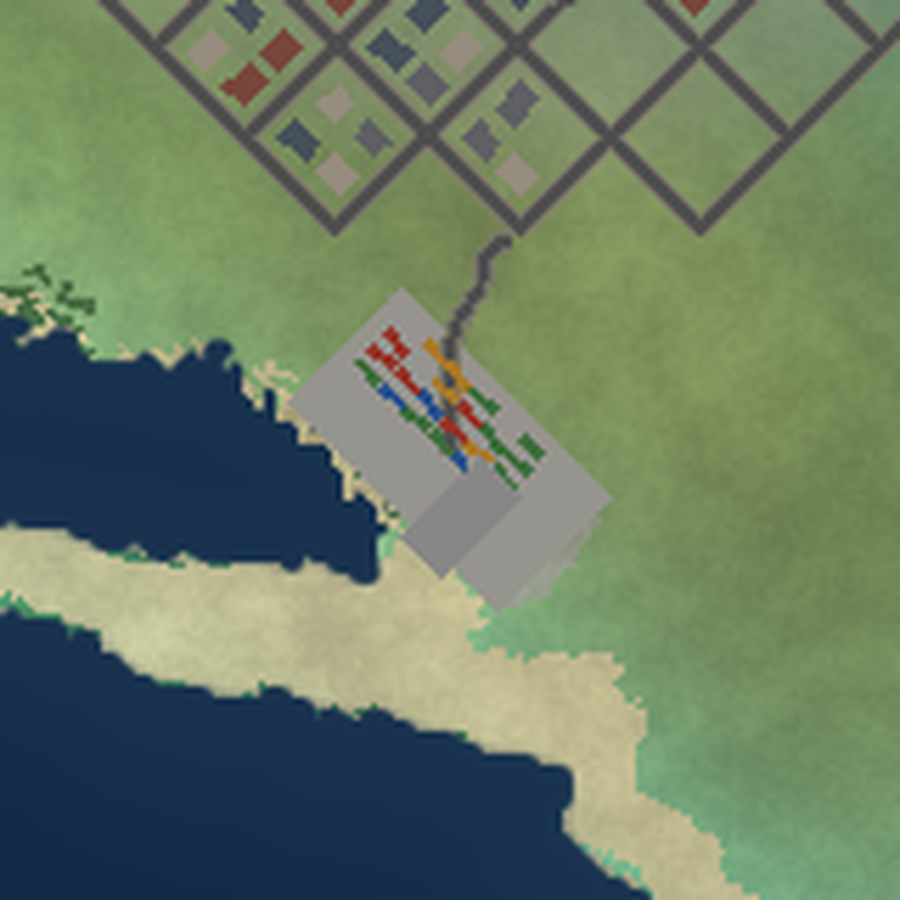
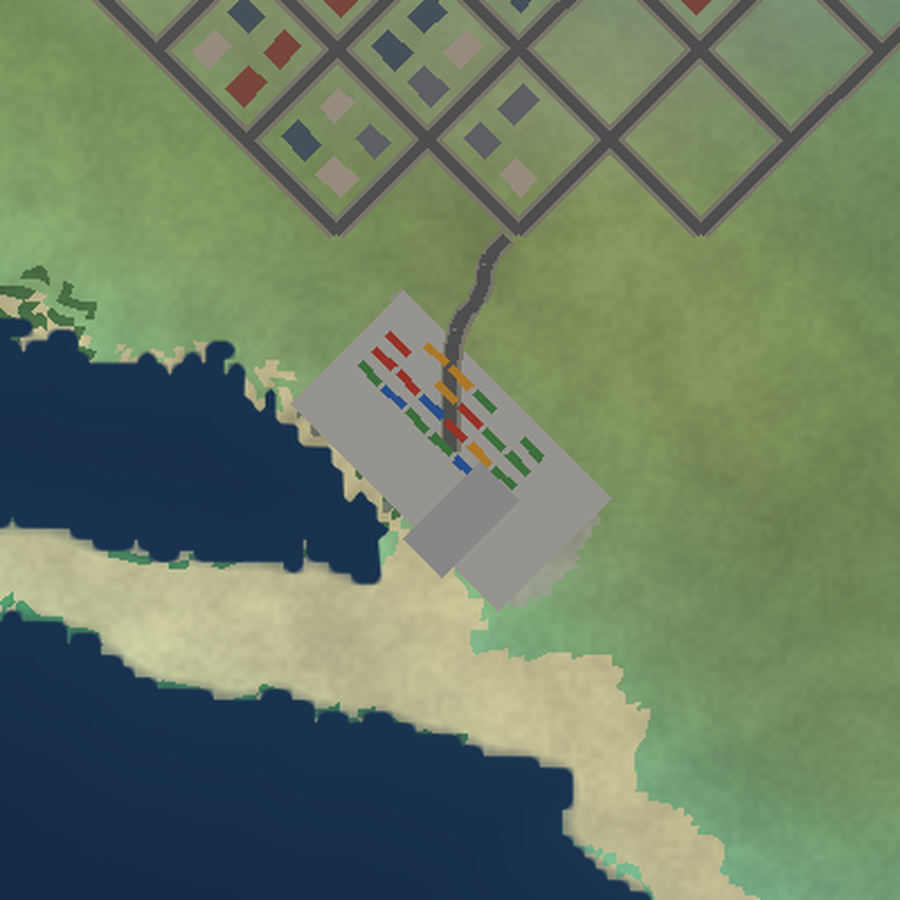
Move roads to data/roads for the PBO, point newRoadsShape at them, and rewrite the README
The README now covers the reshaped scale, roads, water, points of interest, forests, Terrain
Builder import, packing the mod, server setup and the names to verify on a P: drive. Text
files are renormalised to the line endings set in .gitattributes.

diff --git a/tools/roads.py b/tools/roads.py
@@ -6,7 +6,7 @@ streets rather than cutting through blocks, and reuses roads already built so ro
 corridors. Town streets come from the block grid in towns.py. Highways outside towns are graded
 into the terrain as a smooth road bed.
 
-Writes source/roads/roads.shp with RoadsLib.cfg for Terrain Builder, source/roads.json (used by
+Writes data/roads/roads.shp with RoadsLib.cfg (packed into the PBO for the world config), source/roads.json (used by
 the satellite and forest builders) and source/roads_4096.png (road footprint).
 """
 
@@ -354,7 +354,7 @@ def road_footprint(roads: list[Road], grid) -> np.ndarray:
 def write_outputs(roads: list[Road], footprint: np.ndarray, source_dir: Path, easting: float, northing: float) -> None:
     import shapefile
 
-    out = source_dir / "roads"
+    out = source_dir.parent / "data" / "roads"
     out.mkdir(parents=True, exist_ok=True)
     with shapefile.Writer(str(out / "roads"), shapeType=shapefile.POLYLINE) as w:
         w.field("ID", "N", 4)

diff --git a/config.cpp b/config.cpp
@@ -33,6 +33,7 @@ class CfgWorlds
 		worldName = "maps\aotearoa\world\aotearoa.wrp";
 		mapSize = 20480;
 		centerPosition[] = {10240, 10240, 0};
+		newRoadsShape = "\maps\aotearoa\data\roads\roads.shp";
 
 		// The engine counts northern latitudes as negative, so a southern one is positive.
 		latitude = 41.5;

diff --git a/README.md b/README.md
@@ -1,8 +1,29 @@
 # Aotearoa (DayZ terrain)
 
-A 20 km DayZ terrain based on New Zealand, for a new server. The coastline and the big landforms come from real elevation data, so you can pick out the Southern Alps, Fiordland, Canterbury Plains, Banks Peninsula, the central volcanic plateau, Taranaki and Stewart Island. Small detail is generated. The map has 42 towns and bases with bilingual labels, and a satellite texture coloured from a real satellite photo.
+A 20 km DayZ terrain based on New Zealand, for a new server. The coastline and the big landforms come from real elevation data, so you can pick out the Southern Alps, Fiordland, the Canterbury Plains, Banks Peninsula, the central volcanic plateau, Taranaki and Stewart Island. On top of that the repo generates:
+
+- 42 towns and bases with bilingual labels
+- state highways and town streets
+- lakes and rivers
+- airfields, ports, ski fields, Hobbiton, farms and Whakaari / White Island
+- forests
+- a satellite texture coloured from a real satellite photo
+- the server mission files
 
 ![Satellite](preview/satellite_2048.png)
+
+## Quick start (Windows)
+
+1. Install [Python 3.10 or newer](https://www.python.org/downloads/) and tick "Add python.exe to PATH".
+2. Double-click `setup.bat` once.
+3. Double-click `build_all.bat`. It writes the large files that are too big to commit:
+   - `source\heightmap_4096.asc`
+   - `source\mask_20480.png`
+   - `source\satellite_20480.png`
+   - the mission files
+
+   It takes about 20 minutes and 6 GB of memory. Run `build_all.bat regen` to rebuild the whole terrain from the elevation data first.
+4. Follow [Terrain Builder setup](#terrain-builder-setup), then [Packing the mod](#packing-the-mod) and [Server setup](#server-setup).
 
 ## Scale
 
@@ -10,108 +31,155 @@ A 20 km DayZ terrain based on New Zealand, for a new server. The coastline and t
 |---|---|
 | Terrain size | 20480 m x 20480 m |
 | Heightmap grid | 4096 x 4096, 5 m cells |
-| Real to game | 1 game metre is about 65 real metres |
-| Land area | about 66 km2 (16% of the square) |
-| Highest point | 442 m (Southern Alps) |
-| Steepest slope | 40 degrees |
-| Orientation | Turned 16 degrees clockwise so the country fits the diagonal |
+| Real to game | 1 game metre is about 64 real metres |
+| Land area | about 90 km2 (21% of the square) |
+| Highest point | 464 m (Southern Alps) |
+| Steepest slope | 40 degrees on dry land |
 
 New Zealand is about 1500 km long, so a 20 km map shrinks it a lot, and real heights would make every range a cliff. Heights are scaled down far more than distances, then capped at 40 degrees so players can still climb the hills.
 
-## Files
+The country is reshaped to fill more of the square while staying recognisable:
 
-| Path | What it is |
-|---|---|
-| `source/heightmap_4096.png` | 16-bit heightmap. Black is `png_black_m` and white is `png_white_m` in `heightmap.json`. |
-| `source/heightmap.json` | Height range, grid, projection and source details |
-| `source/mask_4096.png` | Surface mask. Its colours match `layers.cfg`. |
-| `source/layers.cfg` | Surface layers and mask colours for Terrain Builder |
-| `source/mapLegend.png` | Legend picture used by `layers.cfg` |
-| `source/sat_tint_512.png` | Regional colour taken from the satellite photo, in map space |
-| `source/towns.csv` | Generated town positions in world and Terrain Builder coordinates |
-| `source/objects/towns_tb.txt` | Town buildings for Terrain Builder's object import |
-| `source/objects/towns_spawner.json` | The same buildings as a DayZ object spawner file |
-| `config/names.hpp` | Town labels for the in-game map (`CfgWorlds` `Names` class) |
-| `preview/` | Satellite, shaded relief, surface mask, slope, towns and town close-ups |
-| `tools/generate_terrain.py` | Builds the heightmap, mask, towns and previews from real elevation data |
-| `tools/towns.csv` | Town list: English and te reo Māori names, real latitude and longitude, size tier, optional radius |
-| `tools/towns.py` | Town placement, flattening, building layout and output writers |
-| `tools/sample_photo_colours.py` | Lines a north-up NZ photo up with the map and samples its colours |
-| `tools/satellite_palette.json` | Snow and sea colours sampled from the photo |
-| `tools/build_satellite.py` | Builds the satellite texture |
-| `tools/png_to_asc.py` | Turns the PNG heightmap into the `.asc` file Terrain Builder imports |
+1. Both islands are turned 16 degrees clockwise.
+2. The North Island is bent 30 degrees about Wellington and moved 20 km east.
+3. Both islands are widened by 1.3 across their length.
 
-Some files are too big to commit (the `.asc` heightmap is about 115 MB, and the full-size mask and satellite images are larger still). Build them locally:
+`heightmap.json` records every step.
 
-```bash
-pip install -r tools/requirements.txt
-python tools/png_to_asc.py                  # source/heightmap_4096.asc
-python tools/build_satellite.py --size 20480    # source/satellite_20480.png, needs about 5 GB of memory
-python tools/generate_terrain.py --mask-size 20480  # source/mask_20480.png, downloads elevation tiles again
-```
+## What's on the map
 
-## Surfaces
-
-| Layer | Colour | Where |
-|---|---|---|
-| beach | 255,230,140 | Low coast up to 45 m inland, and everything under the sea |
-| pasture | 120,190,60 | Default lowland grass, and the ground inside towns |
-| farmland | 200,200,90 | Flat low ground, e.g. Canterbury and Waikato |
-| bush | 20,90,30 | Steep hills and the wet West Coast |
-| pine | 60,110,70 | Patches of plantation forest in the North Island hills |
-| tussock | 190,160,80 | South Island high country east of the main divide |
-| scree | 150,150,150 | High alpine ground |
-| rock | 90,80,75 | Anything steeper than 36 degrees |
-| volcanic | 120,60,50 | Central plateau around Ruapehu and Tongariro |
-
-The material paths in `layers.cfg` point at vanilla `DZ\surfaces\data\terrain` files. Check that each one exists on your P: drive before you generate layers, and swap any that don't. Terrain Builder allows only a few surfaces per tile, so if layer generation reports too many surfaces on a tile, merge similar layers (for example, farmland into pasture).
-
-## Satellite texture
-
-![Christchurch satellite close-up](preview/satellite_christchurch.png)
-
-A satellite photo is far too coarse to use directly: at 20 km, one pixel of a full-country photo covers about 30 m of the map. So the photo supplies the regional colour (olive Waikato, brown Canterbury and Otago high country, dark Fiordland), and each surface layer adjusts it: bush darker, farmland and tussock yellower, rock and scree grey, beaches sand. On top of that the builder adds:
-
-- light and shade from the heightmap
-- small-scale texture and canopy speckle
-- snow above about 330 m (the Southern Alps)
-- sea colour by depth
-- a grey tint over towns, with a rooftop drawn for every building
-
-The photo is not stored in this repo; only the colours taken from it are. To use a different north-up photo of New Zealand, run `python tools/sample_photo_colours.py photo.png`, then `build_satellite.py`. It prints how well the coastlines matched (the current photo matched 0.92 out of 1). The style of each layer is set in `LAYER_STYLE` at the top of `build_satellite.py`.
-
-## Towns
+### Towns
 
 ![Towns](preview/towns_2048.png)
 
-42 places from `tools/towns.csv`, with about 1,950 buildings:
+42 places from `tools/towns.csv`, with about 1,900 buildings:
 
 - Main cities: Auckland, Wellington, Christchurch
 - Cities: Hamilton, Tauranga, Dunedin, Palmerston North, Napier, Nelson, Rotorua, New Plymouth, Whangārei, Invercargill, Queenstown
 - Towns and villages: Hastings, Whanganui, Gisborne, Blenheim, Picton, Kaikōura, Taupō, Timaru, Ōamaru, Greymouth, Westport, Hokitika, Franz Josef, Masterton, Ashburton, Wānaka, Te Anau, Gore, Twizel, Hanmer Springs, Kaitāia, Paihia, Whakatāne, Thames, Taumarunui
 - Military bases: Waiouru Army Camp, Burnham Military Camp, RNZAF Base Ōhakea
 
-Map labels show both names where a town has a separate te reo Māori name, for example "Christchurch / Ōtautahi", "Wellington / Te Whanganui-a-Tara" and "Queenstown / Tāhuna". Places whose name is already Māori, like Rotorua, Taupō and Kaikōura, show one name. Edit the `maori` column in `tools/towns.csv` to change a label.
+Map labels show both names where a town has a separate te reo Māori name, for example "Christchurch / Ōtautahi" and "Queenstown / Tāhuna". Places whose name is already Māori, like Rotorua and Taupō, show one name. Edit the `maori` column in `tools/towns.csv` to change a label.
 
-Each town is placed from its real latitude and longitude. Coastal towns are moved inland until at least 70% of the town is on land. Neighbouring towns are shrunk so they don't overlap. The ground is flattened to a gentle tilt of 3 degrees or less, then blended back into the hills. Buildings sit on a street grid of 45 m blocks with 12 m streets: hospital, police, fire station, church and pub nearest the middle, then tenements and offices in the cities, then houses.
+Each town is placed from its real latitude and longitude:
 
-Town sizes are much bigger than true scale would give, so they're worth looting. To add, remove or resize a place, edit `tools/towns.csv` (tiers: `capital`, `city`, `town`, `village`, `military`) and rerun the generator.
+- A coastal town is moved inland until at least 70% of it is on land.
+- Neighbouring towns are shrunk so they don't overlap.
+- The ground is flattened to a tilt of 3 degrees or less.
+- Buildings sit on a grid of 45 m blocks with 12 m streets. Hospital, police, fire station, church and pub are nearest the middle, then tenements and offices in the cities, then houses.
+
+Towns are much bigger than true scale would give, so they're worth looting. To add, remove or resize a place, edit `tools/towns.csv` (tiers: `capital`, `city`, `town`, `village`, `military`) and regenerate.
 
 Close-ups (1 px per metre): [Auckland](preview/town_auckland.png), [Wellington](preview/town_wellington.png), [Christchurch](preview/town_christchurch.png), [Queenstown](preview/town_queenstown.png).
 
-Things to check:
+### Roads
 
-- Building names in `tools/towns.py` are vanilla DayZ classes. The Terrain Builder file uses the model name in lowercase (`land_house_1w01` becomes `house_1w01`). Match these to the templates in your library.
-- Terrain Builder import format is `"template";x;y;yaw;pitch;roll;scale;z offset;`, with the 200000 easting already added.
-- Streets are gaps only. Roads still need drawing in Terrain Builder.
-- `towns_spawner.json` lets you try the towns on a test server before rebuilding the WRP. Add it to `objectSpawnersArr` in `cfggameplay.json`.
-- `config/names.hpp` is UTF-8 with macrons. If a macron shows as a box on the in-game map, the map font is missing that character. Remove the macrons from the `maori` and `name` columns and rerun.
+![Roads](preview/roads_2048.png)
+
+There are 107 km of state highway, 118 km of town streets and 9 km of tracks to sites. Highways follow the real links:
+
+- SH1 the length of both islands, through Waiouru, Burnham and Ōhakea
+- SH2 round the east coast
+- SH3, SH4 and SH5 in the North Island
+- SH6 down the West Coast and over Haast Pass to Wānaka and Queenstown
+- SH7 over Lewis Pass and SH73 over Arthur's Pass
+- SH8 and SH83 through the Mackenzie Country
+- SH94 to Te Anau, plus a few links between
+
+Each leg is a least-cost route. It prefers grades under 8%, never crosses the sea or a lake, avoids crossing rivers, enters towns along their streets, and reuses roads already built so highways share corridors. Highways outside towns are cut into the terrain as a smooth road bed.
+
+- `data/roads/roads.shp` holds the centrelines in Terrain Builder coordinates. The `ID` field picks the road type in `data/roads/RoadsLib.cfg` (1 highway 8 m, 2 street 6 m, 3 track 4 m), and the `REF` field holds the highway number or town.
+- `config.cpp` points `newRoadsShape` at the shapefile for the in-game map.
+- The satellite has every road painted on, so roads are visible and drivable before any road objects are placed. For proper road surfaces, lay road parts along the shapes with Terrain Builder's road tool.
+- `source/roads.json` has the same lines plus 33 points where a highway crosses a riverbed and needs a bridge.
+
+### Water
+
+Lakes come from the real elevation data, where lake surfaces are stored perfectly flat: Taupō, Rotorua, Tarawera, Waikaremoana, Wakatipu, Wānaka, Hāwea, Te Anau, Manapōuri, Pukaki, Tekapo, Ōhau, Benmore and others. Each one is dug as a basin with a rim. `source/lakes.json` gives each lake's water level and shoreline for placing water surfaces in Terrain Builder. Pukaki, Tekapo and Ōhau are painted glacial turquoise on the satellite.
+
+River courses are traced on the real drainage (Waikato, Whanganui, Clutha, Waitaki, Rakaia, Waimakariri and more). They are cut as shallow gravel beds that always run downhill and drop below sea level at the mouth, where the sea fills them. `source/water_4096.png` has lakes in red and riverbeds in green.
+
+### Points of interest
+
+![Points of interest](preview/pois_2048.png)
+
+| Site | What's there |
+|---|---|
+| Auckland Airport, Christchurch Airport, Ōhakea Airfield | 900 m runway, apron, two hangars, service hangar, tower |
+| 11 ports (Auckland, Wellington, Lyttelton, Port Chalmers, Tauranga, Napier, Picton, Nelson, Bluff, Timaru, Port Taranaki) | Concrete pad on the shore, container rows, warehouse |
+| The Remarkables, Coronet Peak, Mt Hutt, Whakapapa | Lodge, car park and a lift line up the fall line |
+| Hobbiton | A ring of cottages and the Green Dragon (hobbit holes need a custom model) |
+| 70 farms | Farmhouse, barn or cowshed and shed, along the highways |
+| Whakaari / White Island | Volcanic islet off the Bay of Plenty with a crater and a contaminated zone |
+
+Every site is fitted onto dry, open land clear of towns, roads and water, flattened, and joined to the nearest road. Labels for the named sites are in `config/names.hpp`. Close-ups: [Christchurch Airport](preview/satellite_christchurchairport.png), [Lyttelton](preview/satellite_lyttelton.png).
+
+### Forests
+
+![Forest density](preview/forest_density_1024.png)
+
+There are about 290,000 trees and bushes. Native bush is an irregular mix of broadleaf trees with an understorey and a bushy edge. Pine is planted in straight rows like radiata plantations, with each stand turned its own way. Trees stay off roads, towns, sites, water and slopes over 38 degrees.
+
+### Surfaces
+
+| Layer | Colour | Where |
+|---|---|---|
+| beach | 255,230,140 | Low coast up to 45 m inland, lake beds, and everything under the sea |
+| pasture | 120,190,60 | Default lowland grass, and the ground inside towns |
+| farmland | 200,200,90 | Flat low ground, e.g. Canterbury and Waikato |
+| bush | 20,90,30 | Steep hills and the wet West Coast |
+| pine | 60,110,70 | Plantation forest in the North Island hills |
+| tussock | 190,160,80 | South Island high country east of the main divide |
+| scree | 150,150,150 | High alpine ground, riverbeds, runways and yards |
+| rock | 90,80,75 | Anything steeper than 36 degrees |
+| volcanic | 120,60,50 | Central plateau and Whakaari |
+
+The material paths in `layers.cfg` point at vanilla `DZ\surfaces\data\terrain` files. Check that each one exists on your P: drive before you generate layers, and swap any that don't. Terrain Builder allows only a few surfaces per tile, so if layer generation reports too many surfaces on a tile, merge similar layers (for example, farmland into pasture).
+
+### Satellite texture
+
+![Christchurch satellite close-up](preview/satellite_christchurch.png)
+
+A satellite photo is far too coarse to use directly: at 20 km, one pixel of a full-country photo covers about 30 m of the map. So the photo supplies the regional colour (olive Waikato, brown Canterbury and Otago high country, dark Fiordland), and each surface layer adjusts it. On top of that the builder adds:
+
+- light and shade from the heightmap
+- small-scale texture and canopy speckle
+- snow above about 330 m
+- sea and lake colour by depth, and braided water in the riverbeds
+- roads, runways with markings, port pads and yards
+- a rooftop for every building
+
+The photo is not stored in this repo; only the colours taken from it are. To use a different north-up photo of New Zealand, run `python tools/sample_photo_colours.py photo.png`, then `build_satellite.py`. It prints how well the coastlines matched (the current photo matched 0.92 out of 1). The style of each layer is set in `LAYER_STYLE` at the top of `build_satellite.py`.
+
+## Files
+
+| Path | What it is |
+|---|---|
+| `config.cpp`, `$PBOPREFIX$` | World config (`CfgWorlds` class `aotearoa`) and PBO prefix `maps\aotearoa` |
+| `config/names.hpp` | Map labels for towns and sites |
+| `mod/mod.cpp` | Mod name and description for the `@Aotearoa` folder |
+| `data/roads/` | `roads.shp` and `RoadsLib.cfg` |
+| `source/heightmap_4096.png` | 16-bit heightmap. Black is `png_black_m` and white is `png_white_m` in `heightmap.json`. |
+| `source/heightmap.json` | Height range, grid, projection and reshape details |
+| `source/mask_4096.png`, `source/layers.cfg`, `source/mapLegend.png` | Surface mask, its layers and legend |
+| `source/water_4096.png`, `source/lakes.json` | Lakes and riverbeds; lake levels and shorelines |
+| `source/roads.json`, `source/roads_4096.png` | Road lines and bridge points; road footprint |
+| `source/pois.json` | Sites, their paved areas, lift lines and the Whakaari zone |
+| `source/towns.csv` | Generated town positions in world and Terrain Builder coordinates |
+| `source/objects/*_tb.txt` | Terrain Builder object imports: towns, sites, forest |
+| `source/objects/*_spawner.json` | Town and site buildings as DayZ object spawner files |
+| `source/sat_tint_512.png` | Regional colour taken from the satellite photo, in map space |
+| `mission/` | Server mission files and a `serverDZ.cfg` template |
+| `preview/` | Satellite, relief, mask, slope, towns, roads, sites, forest and mission maps |
+| `tools/` | The generators (see [Regenerating](#regenerating)) |
+
+Not committed, because they are too big: `source/heightmap_4096.asc` (about 115 MB), `source/mask_20480.png` and `source/satellite_20480.png`. `build_all.bat` makes them.
 
 ## Terrain Builder setup
 
 These steps assume DayZ Tools is installed and the P: drive is mounted with game data extracted.
 
-1. Copy this repo to `P:\maps\aotearoa`, then build the large files (see [Files](#files)).
+1. Copy this repo to `P:\maps\aotearoa` and run `build_all.bat`.
 2. In Terrain Builder, create a new project at `P:\maps\aotearoa\source`.
 3. Open **Mapframe Properties** and set:
    - Location: easting **200000**, northing **0**
@@ -122,20 +190,92 @@ These steps assume DayZ Tools is installed and the P: drive is mounted with game
 4. **Import Terrain** and choose `source\heightmap_4096.asc`.
 5. Import `source\satellite_20480.png` as the satellite image and `source\mask_20480.png` as the surface mask.
 6. Point the layers config at `source\layers.cfg`.
-7. **Import Objects** from `source\objects\towns_tb.txt` once your template library has the building models.
-8. **Generate Layers**, then **Export WRP** to `P:\maps\aotearoa\world\aotearoa.wrp`.
+7. **Import Objects** from each file in `source\objects`:
+   - `towns_tb.txt`
+   - `pois_tb.txt`
+   - `forest_tb.txt` (large, so give it a layer of its own)
 
-Still to do: the world `config.cpp` (include `config\names.hpp`), roads, forests and other objects, and the server mission files (`mapgrouppos.xml`, player spawns and economy files).
+   Do this once your template library has the models.
+8. Import `data\roads\roads.shp` as a shape layer if you want to lay road parts along it.
+9. Add water surfaces for the lakes at the levels in `source\lakes.json`.
+10. **Generate Layers**, then **Export WRP** to `P:\maps\aotearoa\world\aotearoa.wrp`.
+
+## Packing the mod
+
+1. In Addon Builder, pack `P:\maps\aotearoa` to `@Aotearoa\addons\aotearoa.pbo` with the prefix `maps\aotearoa`.
+   - Leave out `source\`, `tools\`, `preview\` and `mission\`. They are inputs, not game data.
+   - Keep `config.cpp`, `config\`, `data\` and `world\`.
+2. Copy `mod\mod.cpp` into `@Aotearoa\`.
+3. Sign the PBO with your key if the server verifies signatures.
+
+The world inherits lighting, weather and sounds from Chernarus Plus. It sets a southern latitude (41.5 degrees south), a 20 km map grid and a January start date.
+
+## Server setup
+
+`tools/build_mission.py` (step 5 of `build_all.bat`) writes `mission/dayzOffline.aotearoa`:
+
+| File | What it holds |
+|---|---|
+| `init.c` | Vanilla start-up, with the date kept in the southern summer and the loot export line (see below) |
+| `cfgplayerspawnpoints.xml` | 40 spawn bubbles spread along the coasts of the two main islands |
+| `cfgeventspawns.xml` | Cars on the highway verges, boats off the ports, heli crashes in open country, police cars in town streets, military convoys near the bases |
+| `env/zombie_territories.xml` | Infected zones: city, village and military in towns, industrial at ports and airfields, solitude at farms |
+| `cfgeffectarea.json` | The Whakaari contaminated zone and the mainland safe positions |
+| `cfggameplay.worldsdata.json` | `WorldsData` to merge into `cfggameplay.json`: object spawners and New Zealand temperatures |
+
+`mission/serverDZ.cfg` is a server config template pointing at the mission.
+
+To set up a server:
+
+1. Copy vanilla `mpmissions\dayzOffline.chernarusplus` to `mpmissions\dayzOffline.aotearoa`. Copy the generated files over it.
+2. Merge `cfggameplay.worldsdata.json` into the mission's `cfggameplay.json`.
+3. Start the server with `-mod=@Aotearoa` and `serverDZ.cfg`.
+4. Export the loot positions:
+   1. Uncomment the `ExportProxyData` line in `init.c`.
+   2. Start the server once.
+   3. Copy `storage_1\export\mapgrouppos.xml` into the mission folder.
+   4. Comment the line out again.
+
+   Loot won't spawn in buildings until you do this.
+5. The animal territory files in `env\` still have Chernarus positions. Replace their zones, or empty them for the species New Zealand doesn't have (wolves and bears).
+
+The economy (`db\types.xml` and the rest) is vanilla until you decide how loot-heavy the server should be.
+
+## Things to check on your P: drive
+
+Class and model names here are vanilla DayZ names that haven't been checked against a real P: drive yet. If one doesn't match, Terrain Builder skips the object or the server logs a missing class. The lists are at the top of each file:
+
+| Where | What |
+|---|---|
+| `tools/towns.py` | Town buildings (`Land_House_1W01` and so on). Terrain Builder uses the model name in lowercase (`land_house_1w01` becomes `house_1w01`). |
+| `tools/pois.py` | Hangars, tower, containers, warehouse, barns, lift towers |
+| `tools/forests.py` | Tree and bush models from `DZ\plants` |
+| `data/roads/RoadsLib.cfg` | Road textures and materials (placeholders) |
+| `source/layers.cfg` | Surface materials |
+
+The Terrain Builder object format is `"template";x;y;yaw;pitch;roll;scale;z offset;`, with the 200000 easting already added. Town grids and site layouts are turned in steps of 45 degrees, so buildings line up whichever way the engine counts yaw.
+
+`config/names.hpp` is UTF-8 with macrons. If a macron shows as a box on the in-game map, the map font is missing that character. Remove the macrons from the `maori` and `name` columns in `tools/towns.csv` and regenerate.
 
 ## Regenerating
 
-`tools/generate_terrain.py` downloads [Terrarium elevation tiles](https://registry.opendata.aws/terrain-tiles/) from AWS Open Data (a mix of SRTM, GEBCO, LINZ and other sources) into `~/.cache/aotearoa-tiles`. The tuning values are at the top of the script:
+```bash
+pip install -r tools/requirements.txt
+python tools/generate_terrain.py      # terrain, water, towns, roads, sites, forest, 4096 mask, previews
+python tools/build_satellite.py --size 20480
+python tools/upscale_mask.py 20480
+python tools/png_to_asc.py
+python tools/build_mission.py
+```
 
-- `ROTATION_DEG`: turn the country
-- `MAX_HEIGHT`: height of the main ranges
-- `MAX_SLOPE_DEG`: slope cap
-- `MIDDLE_WEIGHT`: how much real valley and ridge detail is kept
-- `COAST_RAMP_M`: how gently the land rises from the sea
-- `SEED`: the generated detail
+`generate_terrain.py` downloads [Terrarium elevation tiles](https://registry.opendata.aws/terrain-tiles/) from AWS Open Data into `~/.cache/aotearoa-tiles`. The tiles mix SRTM, GEBCO, LINZ and other sources. It takes about 5 minutes. Each part has its own module and its own settings at the top of the file:
 
-Run it with no arguments to rebuild the heightmap, the 4096 mask, the towns and the previews. Add `--mask-size 20480` for the full-size mask, or `--asc` to also write the `.asc` heightmap. Rebuild the satellite texture afterwards, because it follows the mask and the towns.
+| Module | Settings |
+|---|---|
+| `generate_terrain.py` | Shape and height: `ROTATION_DEG`, `NI_BEND_DEG`, `WIDEN`, `MAX_HEIGHT`, `MAX_SLOPE_DEG`, `MIDDLE_WEIGHT`, `COAST_RAMP_M`, `SEED` |
+| `water.py` | Lake detection, river size (`RIVER_MIN_CATCHMENT_KM2`) and depth |
+| `towns.py` | Town tiers, block size and building lists |
+| `roads.py` | The highway list (`HIGHWAYS`), road widths and routing costs |
+| `pois.py` | Airfields, ports, ski fields, Hobbiton, Whakaari, farm count |
+| `forests.py` | Tree lists and spacing |
+| `build_mission.py` | Spawn, vehicle and crash counts, infected zone density, temperatures |
